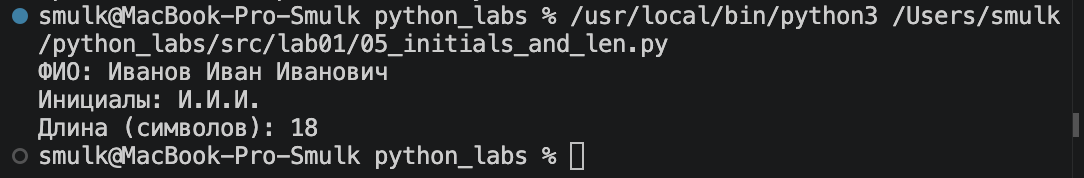
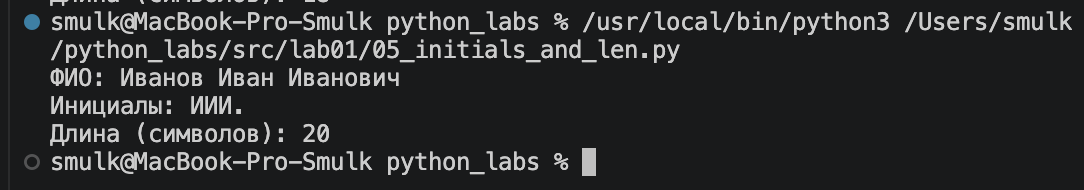
ex05

diff --git a/src/lab01/05_initials_and_len.py b/src/lab01/05_initials_and_len.py
@@ -1,7 +1,7 @@
 fio=input('ФИО: ')
 parts=fio.split()
-initials='.'.join(word[0] for word in parts).upper()+'.'
+initials=''.join(word[0] for word in parts).upper()+'.'
 clean_fio=''.join(parts)
 
 print(f'Инициалы: {initials}')
-print(f'Длина (символов): {len(clean_fio)}')
+print(f'Длина (символов): {len(fio)}')
